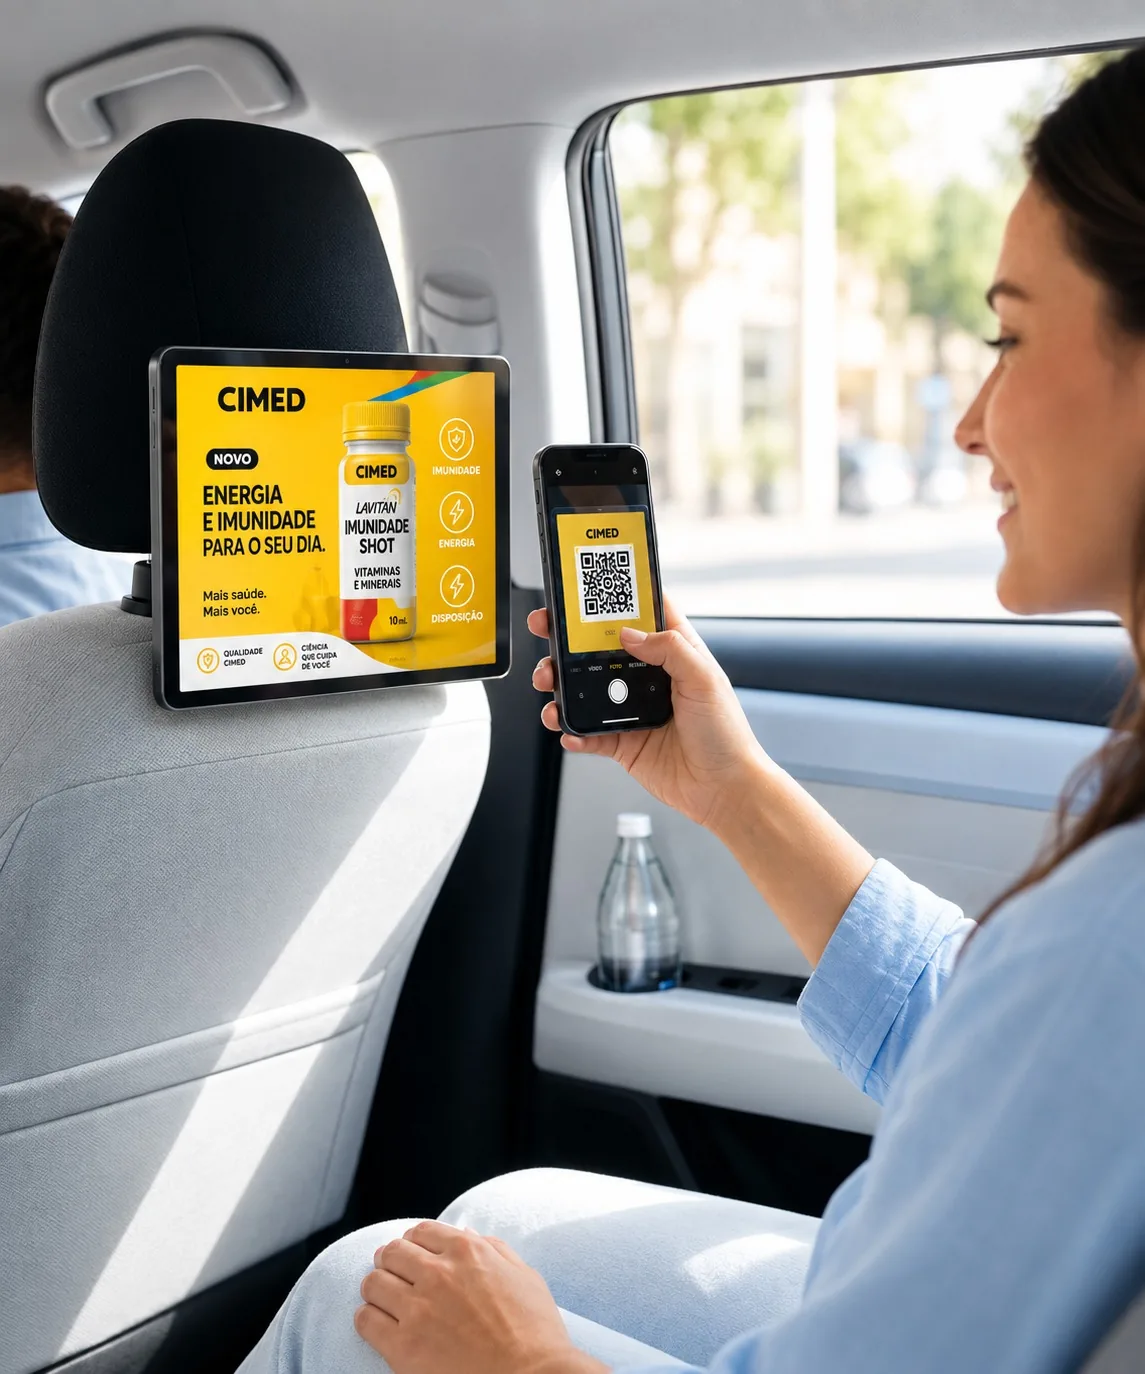
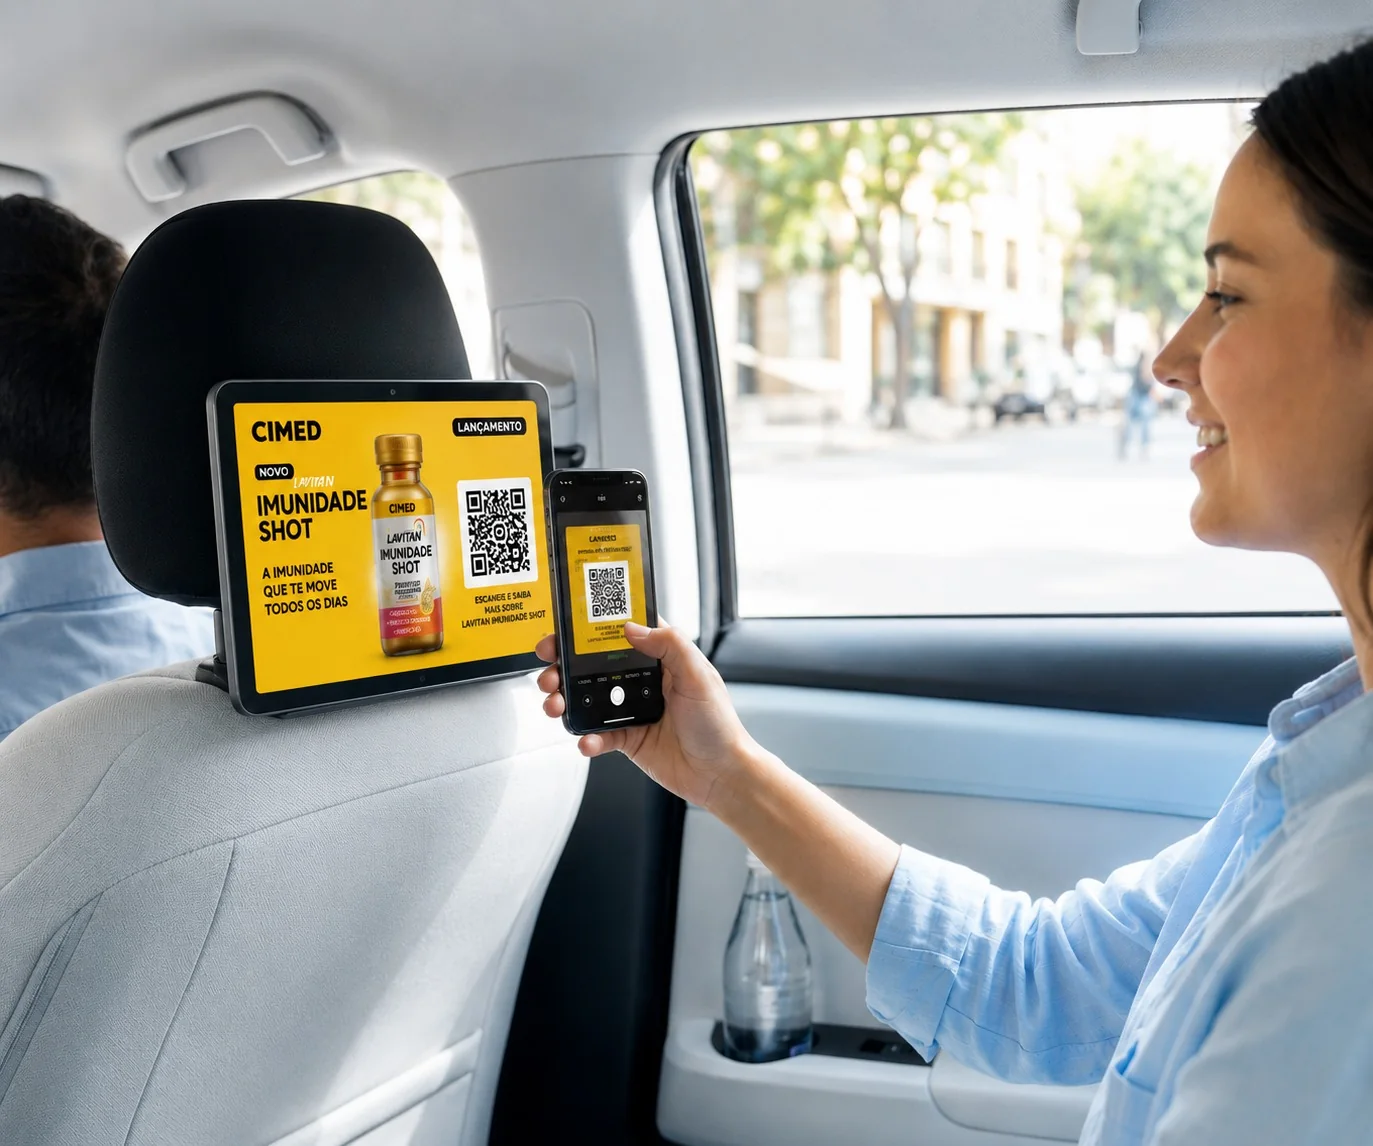
fix(landing): hero definitivo — tablet com QR visível e celular mirando nele
A foto anterior mostrava a peça da Cimed sem QR na tela, então o gesto do
celular não se explicava sozinho. Esta traz o QR no tablet e a câmera
enquadrando ele, que é a promessa da página: impressão → scan → lead.

Passa de retrato (1145x1374) para paisagem (1373x1146); width/height
atualizados junto para não gerar layout shift.

diff --git a/frontend/src/pages/Landing.jsx b/frontend/src/pages/Landing.jsx
@@ -159,8 +159,8 @@ export default function Landing() {
                 <img
                   src="/passageiro-tablet.webp"
                   alt="Passageira no banco de trás de um carro de aplicativo apontando a câmera do celular para o QR code exibido no tablet FastLead"
-                  width="1145"
-                  height="1374"
+                  width="1373"
+                  height="1146"
                   fetchPriority="high"
                   className="w-full rounded-2xl object-cover shadow-[0_30px_70px_-40px_rgba(11,29,58,0.45)]"
                 />
